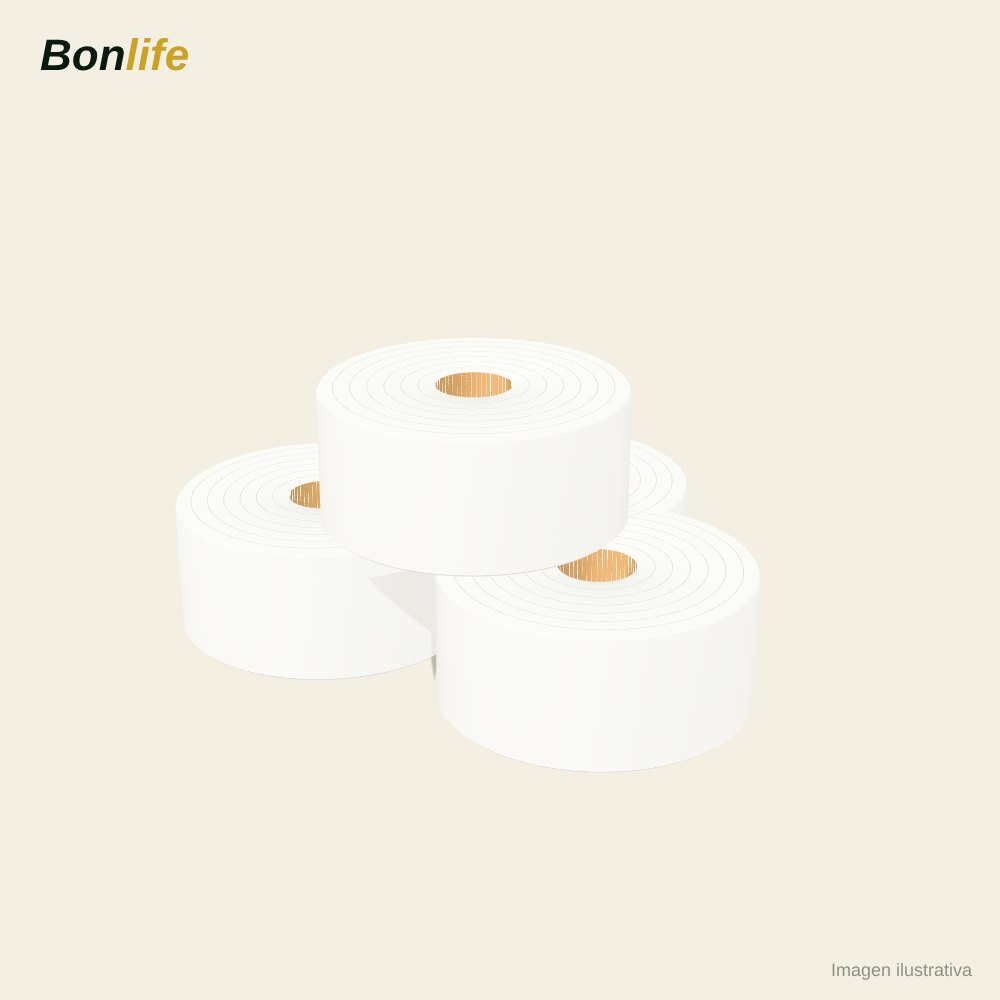
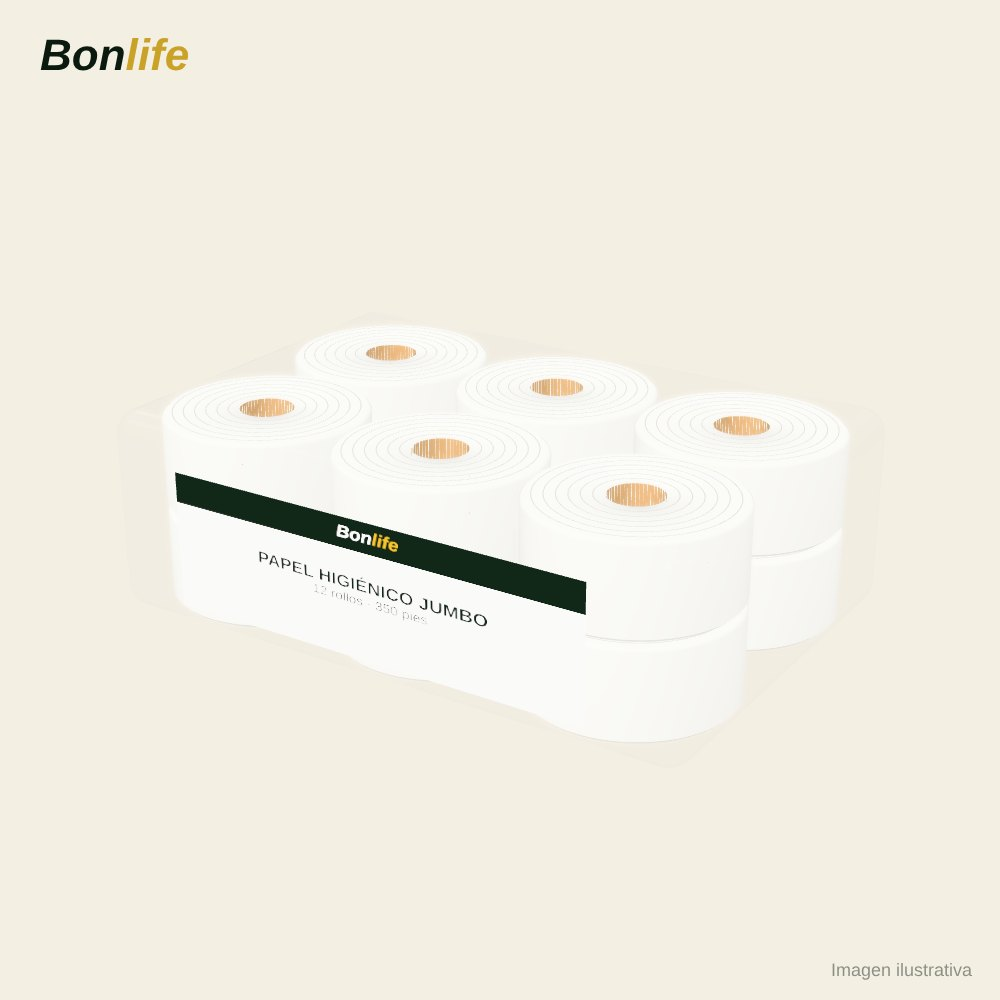
Rebuild supplies mockups to match real products in Dominican stores
Modeled on supplier photos (used as reference only, not published):
round HDPE gallons with molded handles, opaque white or translucent with
the liquid color showing, and wrap-around labels; shrink-wrapped 12-roll
jumbo pack; long flat napkin pack; folded trash bag stack with a paper
band; flat glove dispenser; foam cup sleeve; aluminum pan with ridges and
a clear dome lid; straw bag; fork shapes. All labels are Bonlife designs.

Claude-Session: https://claude.ai/code/session_01JX6KkquM9V4BEEMBQTgP4E

diff --git a/marketing/suministros/mockups.html b/marketing/suministros/mockups.html
@@ -60,7 +60,8 @@ const shadowed = (m) => { m.traverse((o) => { if (o.isMesh) { o.castShadow = tru
 const mat = (o) => new THREE.MeshPhysicalMaterial(o);
 
 // Printed label drawn on a canvas. lines: [{text, size, color, weight}]
-function labelTexture({ w = 1024, h = 1024, bg = "#ffffff", band = GREEN, lines = [], brand = true, footer = "" }) {
+// fit: share of the label width text may use (curved labels only show their middle).
+function labelTexture({ w = 1024, h = 1024, bg = "#ffffff", band = GREEN, lines = [], brand = true, footer = "", fit = 0.86 }) {
   const c = document.createElement("canvas"); c.width = w; c.height = h;
   const g = c.getContext("2d");
   g.fillStyle = bg; g.fillRect(0, 0, w, h);
@@ -80,7 +81,7 @@ function labelTexture({ w = 1024, h = 1024, bg = "#ffffff", band = GREEN, lines 
   for (const l of lines) {
     let px = l.size * h;
     g.font = `${l.weight ?? 800} ${px}px Helvetica, Arial, sans-serif`;
-    while (g.measureText(l.text).width > w * 0.86 && px > 10) {
+    while (g.measureText(l.text).width > w * fit && px > 10) {
       px *= 0.94;
       g.font = `${l.weight ?? 800} ${px}px Helvetica, Arial, sans-serif`;
     }
@@ -114,27 +115,40 @@ function grain(base = 245, amount = 10) {
 const lathe = (pts, seg = 96) => new THREE.LatheGeometry(pts.map(([x, y]) => new THREE.Vector2(x, y)), seg);
 
 // ---------- products ----------
-function jug(color, title, sub) {
+// Round gallon jug like the HDPE gallons sold in RD: rounded body, handle molded
+// into the shoulder, wrap-around label. shell: "opaque" (white HDPE) or "clear"
+// (translucent plastic showing the liquid color).
+function jug({ liquid, shell = "clear", tint = "#ffffff", accent = GREEN, title, sub }) {
   const g = new THREE.Group();
-  const plastic = mat({ color, roughness: 0.32, clearcoat: 0.6, clearcoatRoughness: 0.25, sheen: 0.2 });
-  const body = new THREE.Mesh(new RoundedBoxGeometry(1.5, 2.3, 1.05, 8, 0.2), plastic);
-  body.position.y = 1.15; g.add(body);
-  const shoulder = new THREE.Mesh(new RoundedBoxGeometry(1.5, 0.35, 1.05, 6, 0.17), plastic);
-  shoulder.position.y = 2.32; shoulder.scale.set(0.85, 1, 0.85); g.add(shoulder);
-  const neck = new THREE.Mesh(new THREE.CylinderGeometry(0.2, 0.24, 0.3, 48), plastic);
-  neck.position.set(-0.35, 2.6, 0); g.add(neck);
-  const capMat = mat({ color: "#f2f2f2", roughness: 0.45 });
-  const cap = new THREE.Mesh(new THREE.CylinderGeometry(0.27, 0.27, 0.26, 48), capMat);
-  cap.position.set(-0.35, 2.85, 0); g.add(cap);
-  for (let i = 0; i < 36; i++) { // cap ribs
-    const r = new THREE.Mesh(new THREE.BoxGeometry(0.02, 0.24, 0.03), capMat);
-    const a = (i / 36) * Math.PI * 2; r.position.set(-0.35 + Math.cos(a) * 0.27, 2.85, Math.sin(a) * 0.27); r.rotation.y = -a; g.add(r);
+  const R = 0.78, H = 2.0;
+  const profile = [[0, 0], [R - 0.12, 0], [R - 0.02, 0.05], [R, 0.18], [R, H * 0.72], [R - 0.06, H * 0.84],
+    [R - 0.3, H * 0.95], [0.3, H * 1.0], [0.24, H * 1.03], [0.24, H * 1.1]];
+  const shellMat = shell === "opaque"
+    ? mat({ color: "#f7f7f5", roughness: 0.38, clearcoat: 0.3, clearcoatRoughness: 0.4 })
+    : mat({ color: tint, roughness: 0.18, transmission: 0.85, thickness: 0.08, ior: 1.45, transparent: true, opacity: 0.6 });
+  const body = new THREE.Mesh(lathe(profile, 96), shellMat); g.add(body);
+  if (shell !== "opaque") { // liquid inside, filled to the shoulder
+    const fill = profile.filter(([, y]) => y <= H * 0.8).map(([x, y]) => [Math.max(0, x - 0.04), y + 0.02]);
+    fill.push([0, H * 0.8]);
+    g.add(new THREE.Mesh(lathe(fill, 96), mat({ color: liquid, roughness: 0.1, transmission: 0.35, thickness: 1.2, transparent: true, opacity: 0.92 })));
   }
-  const handle = new THREE.Mesh(new THREE.TorusGeometry(0.34, 0.1, 24, 48, Math.PI), plastic);
-  handle.position.set(0.38, 2.05, 0); handle.rotation.z = -Math.PI / 2; handle.rotation.y = 0; g.add(handle);
-  const label = new THREE.Mesh(new THREE.PlaneGeometry(1.22, 1.25),
-    mat({ map: labelTexture({ lines: [{ text: title, size: title.length > 13 ? 0.105 : 0.13 }, { text: sub, size: 0.075, weight: 500, color: "#444", gap: 1.6 }], footer: "1 GALÓN · 3.78 L" }), roughness: 0.5 }));
-  label.position.set(0, 1.1, 0.527); g.add(label);
+  // handle: a loop molded into the shoulder on the back-right
+  const handle = new THREE.Mesh(new THREE.TorusGeometry(0.33, 0.1, 24, 64, Math.PI * 1.15), shellMat);
+  handle.position.set(0.5, H * 0.82, -0.25); handle.rotation.set(0, -Math.PI / 4, Math.PI * 0.32); g.add(handle);
+  // ribbed cap
+  const capMat = mat({ color: shell === "opaque" ? accent : "#f4f4f4", roughness: 0.42 });
+  const cap = new THREE.Mesh(new THREE.CylinderGeometry(0.29, 0.29, 0.24, 48), capMat); cap.position.y = H * 1.1 + 0.1; g.add(cap);
+  for (let i = 0; i < 40; i++) {
+    const r = new THREE.Mesh(new THREE.BoxGeometry(0.02, 0.22, 0.03), capMat), a = (i / 40) * Math.PI * 2;
+    r.position.set(Math.cos(a) * 0.29, cap.position.y, Math.sin(a) * 0.29); r.rotation.y = -a; g.add(r);
+  }
+  // wrap-around label facing the camera
+  const tex = labelTexture({ w: 1400, h: 900, band: accent, footer: "1 GALÓN · 3.78 L", fit: 0.5,
+    lines: [{ text: title, size: 0.13 }, { text: sub, size: 0.075, weight: 500, color: "#444", gap: 1.6 }] });
+  // Cylinder theta 0 points at +z; the camera sits about 0.18π toward +x, so center the label there.
+  const label = new THREE.Mesh(new THREE.CylinderGeometry(R + 0.006, R + 0.006, 0.95, 96, 1, true, Math.PI * (0.18 - 0.55), Math.PI * 1.1),
+    mat({ map: tex, roughness: 0.45, side: THREE.DoubleSide }));
+  label.position.y = 0.75; g.add(label);
   return g;
 }
 
@@ -173,18 +187,28 @@ function cup(x, z, scale = 1, color = "#fbfbf9") {
 }
 
 const S = {
-  "galon-desengrasante": () => jug("#e8862a", "DESENGRASANTE", "Cocinas y freidoras"),
-  "galon-lavaplatos": () => jug("#a9cc32", "LAVAPLATOS", "Aroma limón"),
-  "galon-jabon": () => jug("#f0a2c0", "JABÓN DE MANOS", "Para dispensadores"),
-  "galon-desinfectante": () => jug("#9a7cd0", "DESINFECTANTE", "Pisos y superficies"),
-  "galon-cloro": () => jug("#eef3f6", "CLORO", "Blanqueador"),
-  "galon-detergente": () => jug("#3c8bd0", "DETERGENTE", "Neutro multiuso"),
-  "galon-cristales": () => jug("#7fd0e6", "LIMPIACRISTALES", "Vidrios y espejos"),
+  "galon-desengrasante": () => jug({ shell: "opaque", accent: "#d9741f", title: "DESENGRASANTE", sub: "Cocinas, campanas y freidoras" }),
+  "galon-lavaplatos": () => jug({ liquid: "#2f9a3a", tint: "#e9f6ea", accent: GREEN, title: "LAVAPLATOS", sub: "Aroma limón" }),
+  "galon-jabon": () => jug({ shell: "opaque", accent: "#d9578c", title: "JABÓN DE MANOS", sub: "Para dispensadores" }),
+  "galon-desinfectante": () => jug({ liquid: "#6b3fb8", tint: "#f1ecfa", accent: "#5a3299", title: "DESINFECTANTE", sub: "Lavanda · pisos y superficies" }),
+  "galon-cloro": () => jug({ liquid: "#cfe0ee", tint: "#dfeaf3", accent: "#2f6fb0", title: "CLORO", sub: "Blanqueador desinfectante" }),
+  "galon-detergente": () => jug({ liquid: "#e9eef2", tint: "#f4f7fa", accent: "#3c8bd0", title: "DETERGENTE", sub: "Neutro multiuso" }),
+  "galon-cristales": () => jug({ liquid: "#2d7fd4", tint: "#e3effa", accent: "#1f62aa", title: "LIMPIACRISTALES", sub: "Vidrios y espejos" }),
 
   "papel-higienico": () => {
     const g = new THREE.Group();
-    const spots = [[-0.95, 0, 0], [0.95, 0, 0], [0, 0, -0.95], [0, 0.82, -0.2]];
-    for (const [x, y, z] of spots) { const r = paperRoll(0.9, 0.22, 0.8); r.position.set(x, y, z); g.add(r); }
+    const R = 0.46, h = 0.42;
+    for (let layer = 0; layer < 2; layer++)
+      for (let i = 0; i < 3; i++)
+        for (let j = 0; j < 2; j++) {
+          const r = paperRoll(R, 0.12, h); r.position.set((i - 1) * R * 2.02, layer * (h + 0.02), (j - 0.5) * R * 2.02); g.add(r);
+        }
+    const film = new THREE.Mesh(new RoundedBoxGeometry(R * 6.2, h * 2 + 0.1, R * 4.2, 6, 0.12),
+      mat({ color: "#ffffff", roughness: 0.15, transmission: 0.95, thickness: 0.01, transparent: true, opacity: 0.28 }));
+    film.position.y = h + 0.01; g.add(film);
+    const tex = labelTexture({ w: 1600, h: 600, lines: [{ text: "PAPEL HIGIÉNICO JUMBO", size: 0.12 }, { text: "12 rollos · 350 pies", size: 0.09, weight: 500, color: "#444" }] });
+    const band = new THREE.Mesh(new THREE.PlaneGeometry(R * 4.4, 0.62), mat({ map: tex, roughness: 0.5, transparent: true }));
+    band.position.set(0, h * 0.95, R * 2.1 + 0.02); g.add(band);
     return g;
   },
   "papel-toalla": () => {
@@ -196,45 +220,48 @@ const S = {
   },
   servilletas: () => {
     const g = new THREE.Group();
-    const tex = labelTexture({ w: 1024, h: 512, lines: [{ text: "SERVILLETAS", size: 0.16 }, { text: "500 unidades", size: 0.1, weight: 500, color: "#444" }] });
-    const pack = wrapperPack(2.2, 1.0, 1.6, tex); pack.position.y = 0.5; g.add(pack);
-    for (let i = 0; i < 6; i++) {
+    const tex = labelTexture({ w: 1600, h: 560, lines: [{ text: "SERVILLETAS", size: 0.17 }, { text: "500 unidades · una hoja", size: 0.09, weight: 500, color: "#444" }] });
+    const pack = wrapperPack(2.8, 0.75, 1.15, tex, "#ffffff"); pack.position.y = 0.375; g.add(pack);
+    for (let i = 0; i < 5; i++) {
       const s = new THREE.Mesh(new THREE.BoxGeometry(1.0, 0.012, 1.0), mat({ color: "#ffffff", roughness: 0.95 }));
-      s.position.set(1.85 + i * 0.004, 0.01 + i * 0.014, 0.6); s.rotation.y = 0.3 + i * 0.03; g.add(s);
+      s.position.set(2.0, 0.01 + i * 0.014, 0.75); s.rotation.y = 0.35 + i * 0.04; g.add(s);
     }
     return g;
   },
   "fundas-basura": () => {
     const g = new THREE.Group();
-    const geo = new THREE.SphereGeometry(1, 96, 64);
-    const p = geo.attributes.position;
-    for (let i = 0; i < p.count; i++) { // lumpy filled bag
-      const x = p.getX(i), y = p.getY(i), z = p.getZ(i);
-      const n = 1 + 0.035 * Math.sin(x * 5 + y * 2) + 0.025 * Math.sin(z * 6 - y * 4) + 0.015 * Math.sin((x + z) * 11);
-      const taper = y > 0.55 ? 1 - (y - 0.55) * 0.9 : 1; // gathers toward the knot
-      p.setXYZ(i, x * n * taper, y * n * 1.1, z * n * 0.92 * taper);
+    const black = mat({ color: "#141414", roughness: 0.3, clearcoat: 0.7, clearcoatRoughness: 0.35 });
+    for (let i = 0; i < 7; i++) {
+      const geo = new RoundedBoxGeometry(2.6, 0.075, 1.5, 3, 0.03);
+      const p = geo.attributes.position;
+      for (let k = 0; k < p.count; k++) p.setY(k, p.getY(k) + 0.02 * Math.sin(p.getX(k) * 3 + i) * Math.cos(p.getZ(k) * 4));
+      geo.computeVertexNormals();
+      const f = new THREE.Mesh(geo, black); f.position.set((i % 2) * 0.03, 0.04 + i * 0.08, (i % 3) * 0.02); g.add(f);
     }
-    geo.computeVertexNormals();
-    const black = mat({ color: "#121212", roughness: 0.28, clearcoat: 0.8, clearcoatRoughness: 0.3 });
-    const bag = new THREE.Mesh(geo, black); bag.position.y = 1.1; g.add(bag);
-    const knot = new THREE.Mesh(new THREE.TorusKnotGeometry(0.16, 0.07, 64, 12), black); knot.position.y = 2.42; g.add(knot);
-    const neck = new THREE.Mesh(new THREE.ConeGeometry(0.35, 0.5, 32), black); neck.position.y = 2.2; neck.rotation.x = Math.PI; g.add(neck);
-    const tex = labelTexture({ w: 1024, h: 512, lines: [{ text: "FUNDAS 55 GAL", size: 0.15 }, { text: "Paquete 100/1", size: 0.1, weight: 500, color: "#444" }] });
-    const pack = wrapperPack(1.6, 0.4, 1.1, tex, "#1d1d1d", 2); pack.position.set(1.7, 0.2, 0.9); pack.rotation.y = -0.3; g.add(pack);
+    const tex = labelTexture({ w: 1400, h: 700, lines: [{ text: "FUNDAS NEGRAS", size: 0.14 }, { text: "55 galones · 100/1", size: 0.1, weight: 500, color: "#444" }] });
+    const band = new THREE.Mesh(new THREE.BoxGeometry(1.2, 0.62, 1.56), [mat({ color: "#fff" }), mat({ color: "#fff" }), mat({ color: "#fff", roughness: 0.6 }), mat({ color: "#fff" }), mat({ map: tex, roughness: 0.55 }), mat({ color: "#fff" })]);
+    band.position.y = 0.31; g.add(band);
     return g;
   },
   guantes: () => {
     const g = new THREE.Group();
-    const tex = labelTexture({ w: 1024, h: 768, lines: [{ text: "GUANTES DE VINIL", size: 0.11 }, { text: "500 unidades · talla única", size: 0.07, weight: 500, color: "#444" }] });
-    const box = printedBox(2.4, 1.3, 1.2, tex); box.position.y = 0.65; g.add(box);
-    const glove = new THREE.Mesh(new THREE.SphereGeometry(0.4, 48, 32), mat({ color: "#e6eef5", roughness: 0.35, transmission: 0.3, thickness: 0.2 }));
-    glove.scale.set(1.1, 0.35, 0.6); glove.position.set(0, 1.33, 0); g.add(glove);
+    const tex = labelTexture({ w: 1600, h: 600, lines: [{ text: "GUANTES DE VINIL", size: 0.14 }, { text: "500 unidades · talla única · desechables", size: 0.075, weight: 500, color: "#444" }] });
+    const box = printedBox(2.9, 0.75, 1.3, tex); box.position.y = 0.375; g.add(box);
+    const slot = new THREE.Mesh(new THREE.CircleGeometry(0.42, 48), mat({ color: "#d9d9d9", roughness: 0.9 }));
+    slot.scale.set(2.2, 0.55, 1); slot.rotation.x = -Math.PI / 2; slot.position.set(0, 0.752, 0); g.add(slot);
+    const glove = new THREE.Mesh(new THREE.SphereGeometry(0.35, 48, 32), mat({ color: "#eef3f7", roughness: 0.25, transmission: 0.6, thickness: 0.1, transparent: true, opacity: 0.85 }));
+    glove.scale.set(1.4, 0.35, 0.5); glove.position.set(0.1, 0.83, 0); g.add(glove);
     return g;
   },
   vasos: () => {
     const g = new THREE.Group();
-    for (let i = 0; i < 6; i++) { const c = cup(-0.7, 0, 1); c.position.y = i * 0.12; g.add(c); } // nested stack
-    g.add(cup(0.6, 0.3, 1)); g.add(cup(0.25, -0.8, 1));
+    for (let i = 0; i < 18; i++) { const c = cup(-0.5, 0, 1); c.position.y = i * 0.11; g.add(c); }
+    const film = new THREE.Mesh(lathe([[0.36, 0], [0.53, 0], [0.53, 3.15], [0.36, 3.2]]), mat({ color: "#ffffff", roughness: 0.12, transmission: 0.95, transparent: true, opacity: 0.25, side: THREE.DoubleSide }));
+    film.position.x = -0.5; g.add(film);
+    const tex = labelTexture({ w: 1400, h: 900, lines: [{ text: "VASOS FOAM", size: 0.15 }, { text: "12 oz · 25 unidades", size: 0.09, weight: 500, color: "#444" }] });
+    const band = new THREE.Mesh(new THREE.CylinderGeometry(0.545, 0.545, 0.9, 64, 1, true, -Math.PI * 0.45, Math.PI * 0.9), mat({ map: tex, roughness: 0.5, side: THREE.DoubleSide }));
+    band.position.set(-0.5, 1.4, 0); band.rotation.y = Math.PI * 0.18; g.add(band);
+    const loose = cup(0.65, 0.45, 1); g.add(loose);
     return g;
   },
   "bandeja-foam": () => {
@@ -259,13 +286,23 @@ const S = {
   },
   "envase-aluminio": () => {
     const g = new THREE.Group();
-    const foil = mat({ color: "#d9dde1", metalness: 1, roughness: 0.32 });
+    const foil = mat({ color: "#d8dce0", metalness: 1, roughness: 0.3 });
     const tray = new THREE.Mesh(new RoundedBoxGeometry(2.4, 0.7, 1.7, 6, 0.08), foil);
-    tray.geometry.attributes.position.array.forEach((_, i, a) => { if (i % 3 === 0) { const y = a[i + 1]; if (y < 0) { a[i] *= 0.88; a[i + 2] *= 0.86; } } });
+    tray.geometry.attributes.position.array.forEach((_, i, a) => { if (i % 3 === 0 && a[i + 1] < 0) { a[i] *= 0.86; a[i + 2] *= 0.84; } });
     tray.geometry.computeVertexNormals(); tray.position.y = 0.35; g.add(tray);
-    const tex = labelTexture({ w: 1024, h: 720, bg: "#f7f7f5", lines: [{ text: "ENVASE DE ALUMINIO", size: 0.1 }, { text: "1.5 lb · con tapa", size: 0.08, weight: 500, color: "#444" }] });
-    const lid = new THREE.Mesh(new THREE.BoxGeometry(2.5, 0.03, 1.8), [mat({ color: "#eee" }), mat({ color: "#eee" }), mat({ map: tex, roughness: 0.6 }), mat({ color: "#eee" }), mat({ color: "#eee" }), mat({ color: "#eee" })]);
-    lid.position.set(0.5, 0.02, 1.4); lid.rotation.y = -0.35; g.add(lid);
+    for (let i = 0; i < 22; i++) { // pressed ridges on the long sides
+      const x = -1.0 + (i * 2.0) / 21;
+      for (const z of [0.79, -0.79]) {
+        const rib = new THREE.Mesh(new THREE.BoxGeometry(0.03, 0.55, 0.02), foil);
+        rib.position.set(x * 0.95, 0.36, z * 0.95); rib.rotation.x = z > 0 ? 0.18 : -0.18; g.add(rib);
+      }
+    }
+    const rim = new THREE.Mesh(new RoundedBoxGeometry(2.55, 0.06, 1.85, 4, 0.03), foil); rim.position.y = 0.72; g.add(rim);
+    const lid = new THREE.Mesh(new RoundedBoxGeometry(2.5, 0.32, 1.8, 6, 0.14), mat({ color: "#ffffff", roughness: 0.05, transmission: 0.95, thickness: 0.02, transparent: true, opacity: 0.35 }));
+    lid.position.y = 0.88; g.add(lid);
+    const tex = labelTexture({ w: 1200, h: 600, lines: [{ text: "ENVASE DE ALUMINIO", size: 0.11 }, { text: "1.5 lb · con tapa · 125 uds", size: 0.08, weight: 500, color: "#444" }] });
+    const sticker = new THREE.Mesh(new THREE.PlaneGeometry(1.2, 0.6), mat({ map: tex, roughness: 0.5 }));
+    sticker.rotation.x = -Math.PI / 2; sticker.position.set(0, 1.045, 0.15); g.add(sticker);
     return g;
   },
   cubiertos: () => {
@@ -274,16 +311,26 @@ const S = {
       const tex = labelTexture({ w: 1024, h: 768, lines: [{ text: t, size: 0.13 }, { text: "Plásticos · 500 unidades", size: 0.075, weight: 500, color: "#444" }] });
       const box = printedBox(1.4, 1.1, 0.9, tex); box.position.set(x, 0.55, x > 0 ? -0.2 : 0.3); box.rotation.y = r; g.add(box);
     });
+    // fork outline: handle plus a head with four tines
+    const sh = new THREE.Shape();
+    sh.moveTo(-0.05, 0); sh.lineTo(0.05, 0); sh.lineTo(0.06, 0.95); sh.lineTo(0.16, 1.1); sh.lineTo(0.16, 1.55);
+    for (let k = 0; k < 4; k++) { const x0 = 0.16 - k * 0.093; sh.lineTo(x0, 1.55); sh.lineTo(x0 - 0.05, 1.55); sh.lineTo(x0 - 0.05, 1.22); sh.lineTo(x0 - 0.093, 1.22); }
+    sh.lineTo(-0.16, 1.55); sh.lineTo(-0.16, 1.1); sh.lineTo(-0.06, 0.95); sh.lineTo(-0.05, 0);
+    const forkGeo = new THREE.ExtrudeGeometry(sh, { depth: 0.035, bevelEnabled: true, bevelSize: 0.01, bevelThickness: 0.01, bevelSegments: 2 });
+    const white = mat({ color: "#ffffff", roughness: 0.32, clearcoat: 0.5 });
+    [[0.2, 1.1, 0.2], [0.5, 1.0, -0.1]].forEach(([x, z, r]) => {
+      const f = new THREE.Mesh(forkGeo, white); f.rotation.set(-Math.PI / 2, 0, r + 1.2); f.position.set(x, 0.03, z); g.add(f);
+    });
     return g;
   },
   sorbetes: () => {
     const g = new THREE.Group();
-    const tex = labelTexture({ w: 1024, h: 768, lines: [{ text: "SORBETES", size: 0.13 }, { text: "Envueltos · 500 unidades", size: 0.075, weight: 500, color: "#444" }] });
-    const box = printedBox(1.4, 1.2, 1.0, tex); box.position.y = 0.6; g.add(box);
-    const paper = mat({ color: "#f6f1e4", roughness: 0.8 });
-    for (let i = 0; i < 9; i++) {
-      const s = new THREE.Mesh(new THREE.CylinderGeometry(0.035, 0.035, 2.0, 16), paper);
-      s.position.set(-0.4 + (i % 5) * 0.18, 1.6, -0.15 + Math.floor(i / 5) * 0.18); s.rotation.z = -0.15 + (i % 3) * 0.08; g.add(s);
+    const tex = labelTexture({ w: 1100, h: 1400, lines: [{ text: "SORBETES", size: 0.1 }, { text: "Envueltos", size: 0.065, weight: 500, color: "#444" }, { text: "500 unidades", size: 0.065, weight: 500, color: "#444" }] });
+    const bag = wrapperPack(1.5, 2.0, 0.4, tex, "#ffffff"); bag.position.y = 1.0; bag.rotation.y = -0.15; g.add(bag);
+    const paper = mat({ color: "#f3efe4", roughness: 0.7 });
+    for (let i = 0; i < 5; i++) {
+      const s = new THREE.Mesh(new THREE.CylinderGeometry(0.035, 0.035, 1.9, 16), paper);
+      s.rotation.set(Math.PI / 2, 0, 0.9 + i * 0.05); s.position.set(1.15 + i * 0.09, 0.035, 0.75 - i * 0.05); g.add(s);
     }
     return g;
   },
